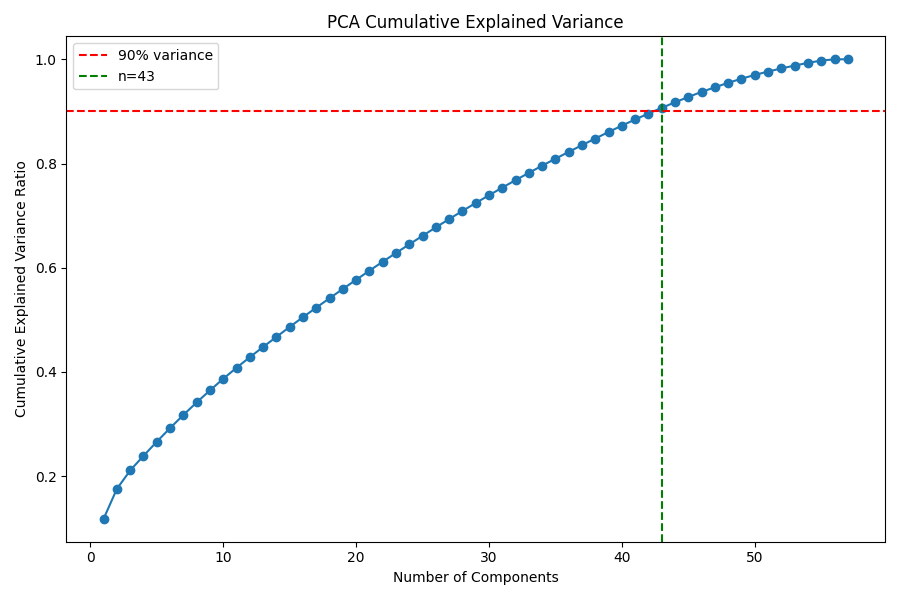
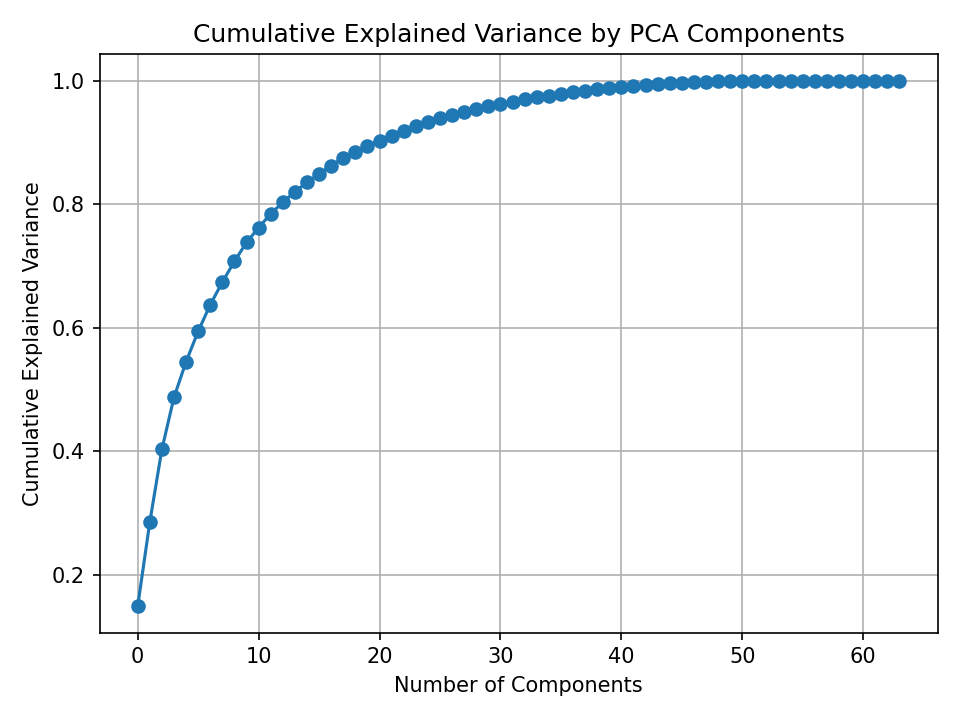
Address AI-reviewer comments

Changed region(s): [[0.0, 0.03, 0.9956, 0.99], [0.8711, 0.18, 0.9022, 0.21], [0.2489, 0.18, 0.28, 0.21]]

diff --git a/assignments_03/warmup_03.py b/assignments_03/warmup_03.py
@@ -2,6 +2,7 @@
 
 import numpy as np
 import matplotlib.pyplot as plt
+from pathlib import Path
 
 from sklearn.datasets import load_iris, load_digits
 from sklearn.model_selection import train_test_split, cross_val_score
@@ -10,6 +11,7 @@ from sklearn.decomposition import PCA
 from sklearn.neighbors import KNeighborsClassifier
 from sklearn.tree import DecisionTreeClassifier
 from sklearn.linear_model import LogisticRegression
+from sklearn.multiclass import OneVsRestClassifier
 from sklearn.metrics import (
     accuracy_score,
     classification_report,
@@ -20,6 +22,8 @@ from sklearn.metrics import (
 iris = load_iris(as_frame=True)
 X = iris.data
 y = iris.target
+output_dir = Path(__file__).resolve().parent / "outputs"
+output_dir.mkdir(parents=True, exist_ok=True)
 
 # Preprocessing Question 1
 # Split X and y into training and test sets using an 80/20 split with stratify=y and random_state=42.
@@ -63,6 +67,7 @@ preds_scaled = knn_scaled.predict(X_test_scaled)
 
 print("Accuracy:", accuracy_score(y_test, preds_scaled))
 print(classification_report(y_test, preds_scaled))
+# Scaling improves KNN here because KNN uses distance, and standardization prevents larger-scale features from dominating nearest-neighbor comparisons
 
 # KNN Question 3
 # Using cross_val_score with cv=5, evaluate the k=5 KNN model on the unscaled training data.
@@ -108,10 +113,11 @@ disp = ConfusionMatrixDisplay(
     display_labels=iris.target_names
 )
 disp.plot()
-cm_file = f'outputs/knn_confusion_matrix.png'
+cm_file = output_dir / 'knn_confusion_matrix.png'
 plt.title("KNN Confusion Matrix (Iris)")
 plt.savefig(cm_file, dpi=150)
 plt.close()
+# The model most often confuses versicolor and virginica, while setosa is classified almost perfectly
 
 # --- The sklearn API: Decision Trees ---
 
@@ -132,16 +138,19 @@ print(classification_report(y_test, dtc_preds))
 # Logistic Regression Question 1
 # Train three logistic regression models on the scaled Iris data, identical in every way except for the C parameter: C=0.01, C=1.0, and C=100.
 # Use max_iter=1000 and solver='liblinear' for all three.
-log_reg_0_1 = LogisticRegression(C=0.01, max_iter=1000, solver="lbfgs") # I moved out from 'liblinear' cause of this error: ValueError: The 'liblinear' solver does not support multiclass classification (n_classes >= 3). Either use another solver or wrap the estimator in a OneVsRestClassifier to keep applying a one-versus-rest scheme.
-log_reg_1_0 = LogisticRegression(C=1.0, max_iter=1000, solver="lbfgs")
-log_reg_100 = LogisticRegression(C=100, max_iter=1000, solver="lbfgs")
+log_reg_0_1 = OneVsRestClassifier(LogisticRegression(C=0.01, max_iter=1000, solver="liblinear"))
+log_reg_1_0 = OneVsRestClassifier(LogisticRegression(C=1.0, max_iter=1000, solver="liblinear"))
+log_reg_100 = OneVsRestClassifier(LogisticRegression(C=100, max_iter=1000, solver="liblinear"))
 log_reg_0_1.fit(X_train_scaled, y_train)
 log_reg_1_0.fit(X_train_scaled, y_train)
 log_reg_100.fit(X_train_scaled, y_train)
 # For each model, print the C value and the total size of all coefficients using np.abs(model.coef_).sum().
-print("C=0.01, total coefficient magnitude:", np.abs(log_reg_0_1.coef_).sum())
-print("C=1.0, total coefficient magnitude:", np.abs(log_reg_1_0.coef_).sum())
-print("C=100, total coefficient magnitude:", np.abs(log_reg_100.coef_).sum())
+coef_0_01 = np.abs(np.vstack([est.coef_ for est in log_reg_0_1.estimators_])).sum()
+coef_1_0 = np.abs(np.vstack([est.coef_ for est in log_reg_1_0.estimators_])).sum()
+coef_100 = np.abs(np.vstack([est.coef_ for est in log_reg_100.estimators_])).sum()
+print("C=0.01, total coefficient magnitude:", coef_0_01)
+print("C=1.0, total coefficient magnitude:", coef_1_0)
+print("C=100, total coefficient magnitude:", coef_100)
 # Add a comment: what happens to the total coefficient magnitude as C increases? What does this tell you about what regularization is doing?
 # As C increases, the total coefficient magnitude grows (from 1.738029650758892 to 13.220936133674595 to 41.068106968999814
 # C is the opposite of regularization: a small C means a strong regularization
@@ -172,7 +181,7 @@ for digit in range(10):
     axes[digit].set_title(f"Digit {digit}")
     axes[digit].axis('off')
 plt.tight_layout()
-samp_digits_file = f'outputs/sample_digits.png'
+samp_digits_file = output_dir / 'sample_digits.png'
 plt.savefig(samp_digits_file, dpi=150)
 plt.close()
 
@@ -191,7 +200,7 @@ plt.ylabel('PC2')
 plt.title('PCA 2D Projection of Digits Dataset')
 # Save the figure to outputs/pca_2d_projection.png. Add a comment: do same-digit images tend to cluster together in this 2D space?
 plt.tight_layout()
-samp_digits_file = f'outputs/pca_2d_projection.png'
+samp_digits_file = output_dir / 'pca_2d_projection.png'
 plt.savefig(samp_digits_file, dpi=150)
 plt.close()
 # Add a comment: do same-digit images tend to cluster together in this 2D space?
@@ -208,7 +217,7 @@ plt.title('Cumulative Explained Variance by PCA Components')
 plt.grid()
 # Save to outputs/pca_variance_explained.png.
 plt.tight_layout()
-samp_digits_file = f'outputs/pca_variance_explained.png'
+samp_digits_file = output_dir / 'pca_variance_explained.png'
 plt.savefig(samp_digits_file, dpi=150)
 # Add a comment: approximately how many components do you need to explain 80% of the variance?
 # I needed approximately 12 components to explain 80% of the variance, as we can see from the plot
@@ -244,7 +253,7 @@ for row_idx, n in enumerate(n_values, start=1):
         axes[row_idx, col_idx].axis('off')
 plt.tight_layout()
 # Save to outputs/pca_reconstructions.png.
-samp_digits_file = f'outputs/pca_reconstructions.png'
+samp_digits_file = output_dir / 'pca_reconstructions.png'
 plt.savefig(samp_digits_file, dpi=150)
 # Add a comment: at what n do the digits become clearly recognizable, and does that match where the variance curve levels off?
 # At n=15, the digits become clearly recognizable
